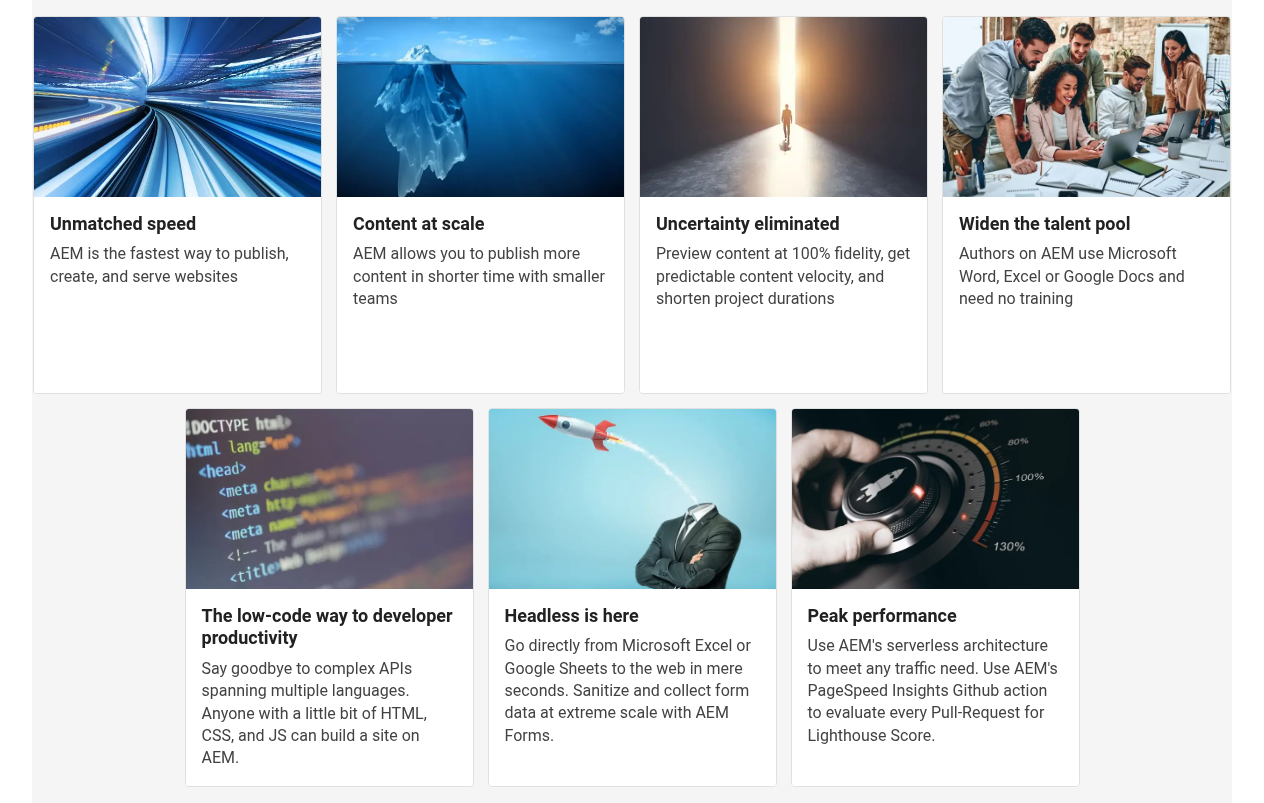
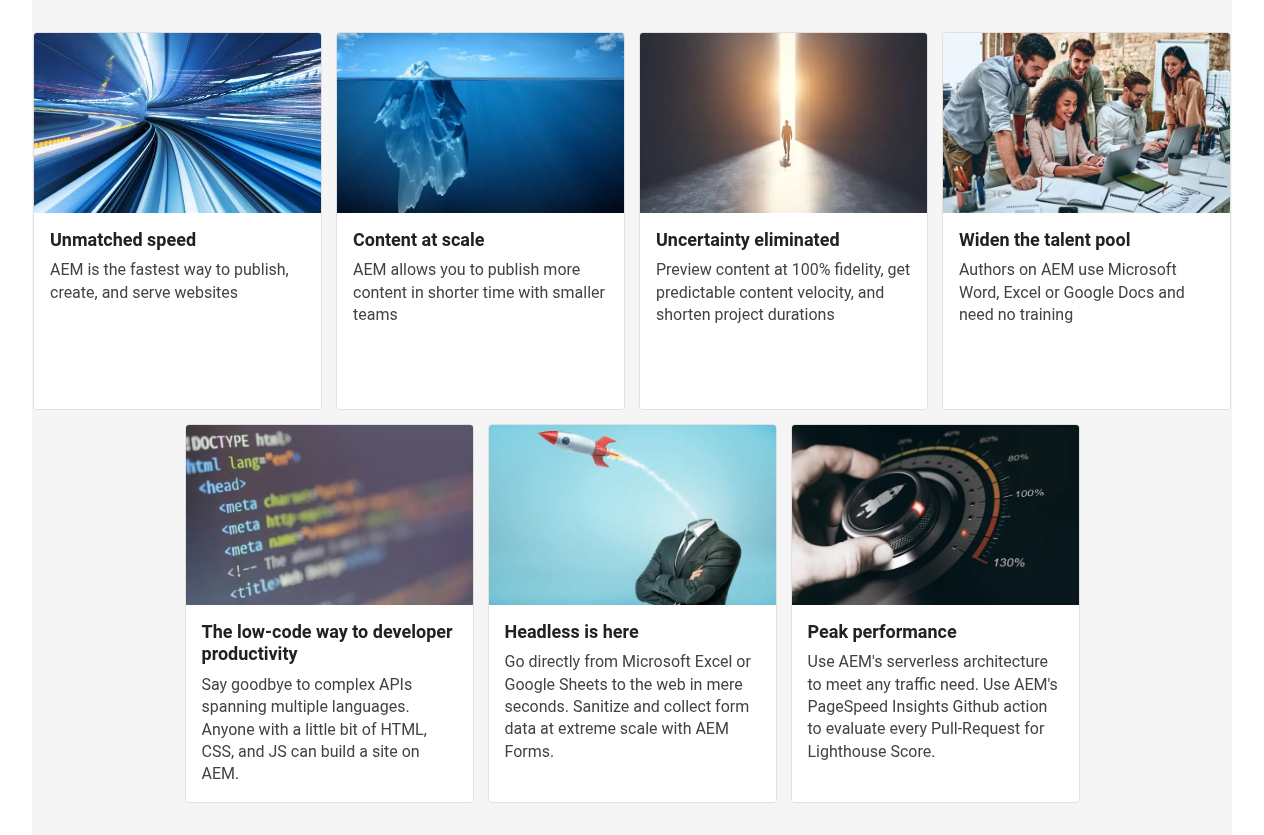
feat: Style the block Cards (cards4) for #951

diff --git a/blocks/cards/cards.css b/blocks/cards/cards.css
@@ -1,3 +1,4 @@
+
 /* ========================= BASE CARDS STYLES ========================= */
 .cards {
   background: #fff;
@@ -39,13 +40,12 @@
 /* .cards.cards4 (Base CSS) - merged with generated CSS below */
 
 /* Merged version of .cards.cards4 appears after this section */
-
 .cards.cards4 {
   background: #f5f5f5;
+  padding: 32px 0;
   max-width: 1240px;
   margin-left: auto;
   margin-right: auto;
-  padding: 16px 0;
   box-sizing: border-box;
 }
 
@@ -167,4 +167,147 @@
   .cards.cards4 .cards-card-body {
     padding: 10px;
   }
+}
+
+/* ============== GENERATED CSS SNIPPET ============== */
+
+.cards.cards4 {
+  background: #f5f5f5;
+  padding: 32px 0;
+  max-width: 1240px;
+  margin-left: auto;
+  margin-right: auto;
+  box-sizing: border-box;
+}
+
+.cards.cards4 > ul {
+  display: flex;
+  flex-wrap: wrap;
+  justify-content: flex-start;
+  align-items: stretch;
+  gap: 24px;
+  list-style: none;
+  margin: 0;
+  padding: 0;
+  width: 100%;
+  box-sizing: border-box;
+}
+
+.cards.cards4 > ul > li {
+  box-sizing: border-box;
+  background: #fff;
+  border: 1px solid #e0e0e0;
+  border-radius: 0;
+  display: flex;
+  flex-direction: column;
+  overflow: hidden;
+  margin: 0;
+
+  /* 4 cols: (100% - 3*24px gap) / 4 */
+  flex: 0 1 calc((100% - 72px) / 4);
+  max-width: calc((100% - 72px) / 4);
+  min-width: 220px;
+  height: auto;
+}
+
+.cards.cards4 .cards-card-image {
+  width: 100%;
+  aspect-ratio: 16 / 9;
+  background: #f8f8f8;
+  overflow: hidden;
+  display: flex;
+  align-items: center;
+  justify-content: center;
+}
+
+.cards.cards4 .cards-card-image img {
+  width: 100%;
+  height: 100%;
+  object-fit: cover;
+  border-radius: 0;
+  display: block;
+}
+
+.cards.cards4 .cards-card-body {
+  padding: 20px;
+  background: #fff;
+  display: flex;
+  flex-direction: column;
+  flex: 1 1 auto;
+  justify-content: flex-start;
+  min-height: 0;
+}
+
+.cards.cards4 .cards-card-body p:first-child {
+  margin-top: 0;
+  margin-bottom: 10px;
+  font-size: 1.15em;
+  font-weight: 700;
+  color: #212121;
+  line-height: 1.25;
+}
+
+.cards.cards4 .cards-card-body p:last-child {
+  margin: 0;
+  color: #212121;
+  font-size: 1em;
+  font-weight: 400;
+  line-height: 1.4;
+}
+
+@media (width <= 1100px), (width <= 1024px) {
+  .cards.cards4 > ul > li {
+    flex: 0 1 calc((100% - 24px) / 2);
+    max-width: calc((100% - 24px) / 2);
+  }
+}
+
+@media (width <= 700px) {
+  .cards.cards4 > ul {
+    gap: 10px;
+  }
+
+  .cards.cards4 > ul > li {
+    flex: 0 1 100%;
+    max-width: 100%;
+    min-width: 0;
+  }
+}
+
+@media (width <= 600px) {
+  .cards.cards4 {
+    padding: 6px 0;
+    max-width: 100%;
+  }
+
+  .cards.cards4 > ul {
+    gap: 5px 0;
+  }
+
+  .cards.cards4 > ul > li {
+    flex: 0 1 100%;
+    max-width: 100%;
+    min-width: 0;
+  }
+
+  .cards.cards4 .cards-card-image {
+    aspect-ratio: unset;
+    height: 110px;
+    min-height: 110px;
+    max-height: 140px;
+  }
+
+  .cards.cards4 .cards-card-body {
+    padding: 10px;
+  }
+}
+
+/* ============== MERGED .cards.cards4 SELECTOR ============== */
+.cards.cards4 {
+  background: #f5f5f5;
+  padding: 32px 0;
+  max-width: 1240px;
+  margin-left: auto;
+  margin-right: auto;
+  box-sizing: border-box;
 }
